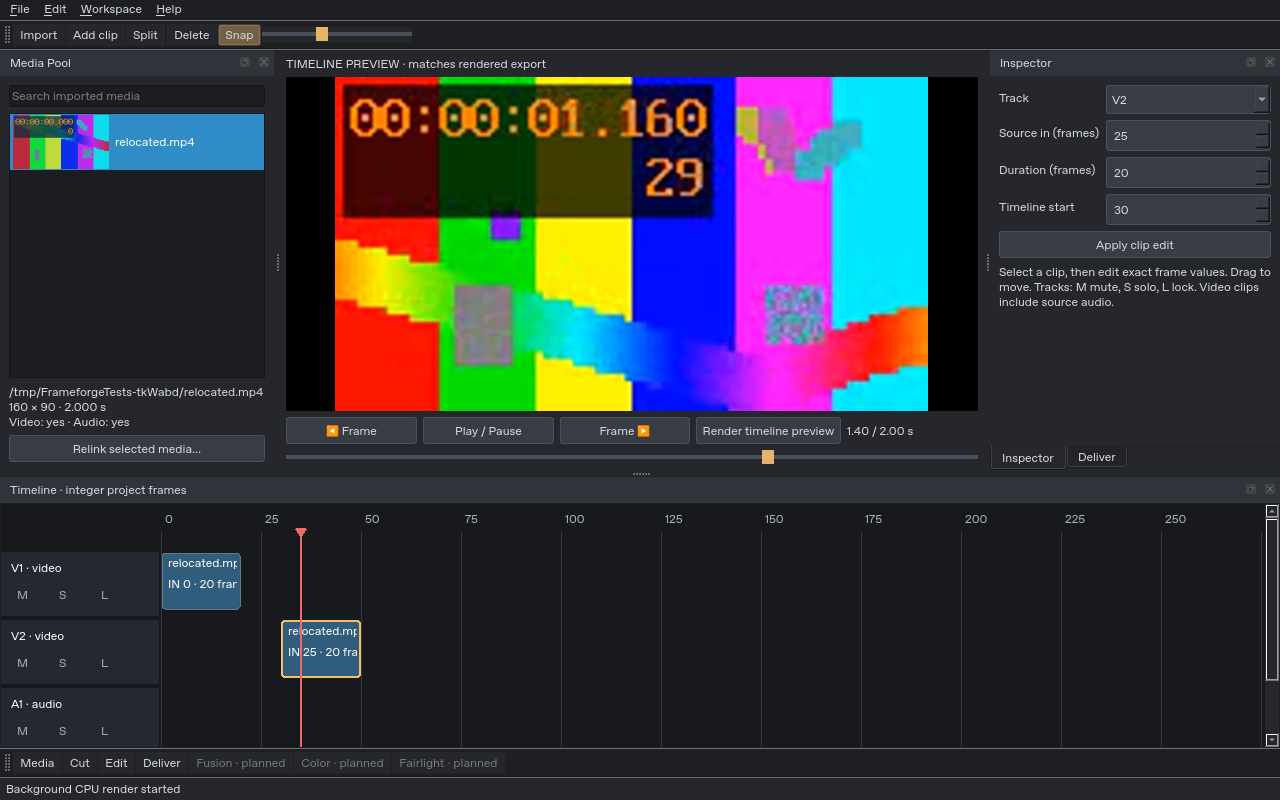
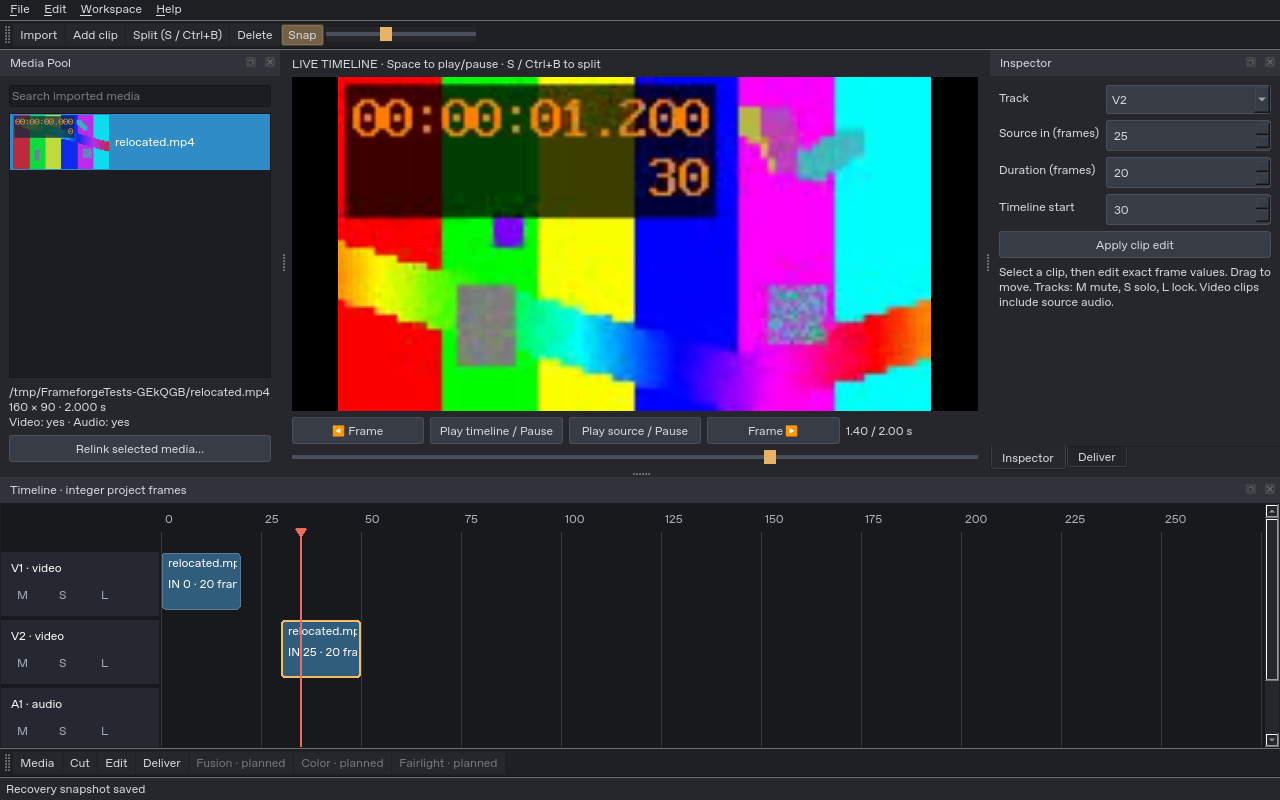
Document verified Frameforge 0.2.0 and prepare release

diff --git a/docs/FIXES_0.2.0.md b/docs/FIXES_0.2.0.md
@@ -1,0 +1,31 @@
+# Frameforge 0.2.0 — direct timeline playback
+
+Close the old editor before updating:
+
+```sh
+curl -fsSL https://raw.githubusercontent.com/klcenka9/frameforge/v0.2.0/scripts/install.sh | bash
+```
+
+Launch `~/.local/bin/frameforge`. Existing schema-1 project files remain supported.
+
+## Editing and transport
+
+- **S / Ctrl+B** splits at the playhead. One shared action shows both shortcuts in the menu/toolbar. Without a selection, it chooses the topmost editable clip under the playhead. Typing S in an editable field remains text input. Boundaries/locked tracks show status guidance rather than opening a modal warning.
+- **Space / Play timeline** reads the source clips directly. Splitting, editing, seeking, frame stepping, pause and resume never encode an MP4 preview or call RenderJob.
+- Edits pause at the current playhead and request the updated frame. Space resumes without rebuilding the timeline into a file.
+- Trimmed sources, video layers, black gaps, video EOF reveal, mixed audio, track mute/solo and split continuity are supported. Preview defaults to 960×540; final export uses project resolution.
+- Video samples follow source timestamps on the project frame grid. Live playback and export use the first video/audio streams even if another stream is marked default.
+- Decode work runs off the GUI thread. Obsolete seeks/edits are cancelled by generation and cannot present stale frames. Queues contain short blocks, not a full timeline.
+- Audio consumption clocks playback. With no device, playback uses a silent monotonic clock. If an output clock stalls for three seconds, queued audio is discarded and silent playback continues without jumping backward. Pause/Play retries audio. Loading is shown in the viewer.
+
+## Explicit final export
+
+Only Deliver's Render/Export control starts an export. Exports still use an immutable snapshot, software FFmpeg processing, output validation and overwrite protection. Live/export audio now share unity-gain summing with a hard peak clamp at ±0.95; this replaces the previous export-only lookahead limiter and can change the sound of loud overlaps.
+
+## Validation and limits
+
+See [TESTING.md](TESTING.md) for local/Ubuntu CI evidence, generated fixture coverage and the independently reviewed fixes. A current native desktop capture is [desktop-x11.png](desktop-x11.png).
+
+This remains an experimental editor. Proxy workflows, effects, color management and advanced audio are not implemented. 4K/8K real-time performance, physical speakers, Mint/Cinnamon and hybrid GPU hardware are not certified. Explicit export retains the existing 64-clip graph limit. Metadata rotation remains unverified. The previously reported GLib/GStreamer source-player warning remains unresolved; direct timeline playback is not evidence that source browsing is fixed.
+
+The source installer targets Mint22+/Ubuntu24.04+/Debian12+ with Qt6.4+ and FFmpeg5.1+ development libraries. The supplied binary/DEB is specifically for **Debian13 x86_64 / Qt6.8.2 / FFmpeg7.1**, not a universal Mint binary. The complete ZIP includes source, this binary, the DEB and a source archive; all require distribution runtime dependencies.

diff --git a/docs/superpowers/plans/2026-10-17-live-playback.md b/docs/superpowers/plans/2026-10-17-live-playback.md
@@ -75,3 +75,5 @@
 - Final review: fresh-context reviewer found no Critical issues, four Important ones (off-grid sampling parity, multistream policy, video EOF layering, audio-clock stalls). All four reproduced red in dedicated tests and passed after fixes; full suite 5/5, 30.57 seconds. The optional suspended-device case failed before watchdog/reset changes and passed afterwards; private audio tests 4/4, 13.713 seconds.
 - Review minors: design status and task checkboxes were already updated at the checkpoint; no deferred minor findings. Source-player GLib warning remains unresolved, as documented.
 - Additional validation: clean source-installer build/install completed; CPack DEB built and inspected for actual libav dependencies, 0755 directories and no workspace RUNPATH. Initial Ubuntu24/Qt6.4.2 CI 39016160916 passed all suites + virtual audio + X11.
+
+- Final reviewed-source Ubuntu24.04 CI 39016590117: success for build, full CTest, private audio suspension/fallback and native X11. Final local X11: 8/8, 5.223 seconds. Product source is unchanged after this validated checkpoint; remaining changes are documentation and release assets.

diff --git a/docs/TESTING.md b/docs/TESTING.md
@@ -57,3 +57,5 @@ Final local 0.2.0 regression suite after review fixes: **5/5 suites passed in 30
 The extended private audio test passed **4/4 Qt Test results in 13.713 seconds**, including normal device-clock transport and deliberately suspending the sink. A clean source-install build with `--no-deps --source` completed in a fresh temporary directory. The installed binary dynamically links libav and has no build-workspace RUNPATH. The Debian package declares the actual libav ABI dependencies.
 
 Initial Ubuntu 24.04 / Qt 6.4.2 / FFmpeg 6.1 CI passed all five suites, virtual audio and native X11: https://github.com/klcenka9/frameforge/actions/runs/39016160916 . Final review-fix CI is recorded with the release.
+
+Final reviewed-source Ubuntu24.04 / Qt6.4.2 / FFmpeg6.1 verification passed configure, build, **5/5 CTest suites**, private audio (including suspended-device fallback) and native X11: https://github.com/klcenka9/frameforge/actions/runs/39016590117 . Final Debian X11 desktop run passed 8/8 Qt Test results in 5.223 seconds.

diff --git a/README.md b/README.md
@@ -12,6 +12,8 @@ The installer uses `sudo apt-get` for distribution dependencies, builds the tagg
 
 For an existing development SDK: `bash scripts/install.sh --no-deps --source "$PWD"`. Use `--prefix /absolute/path` for another user-writable install location. The installer does not replace GPU drivers. [GitHub releases](https://github.com/klcenka9/frameforge/releases) contain the prebuilt **Debian 13 x86_64 / Qt 6.8.2** package and complete ZIP; build from source on other distributions.
 
+[Current desktop screenshot](docs/desktop-x11.png)
+
 ## Working now
 
 - Dockable dark desktop UI, saved dock layouts, Media/Cut/Edit/Deliver views sharing one project.
